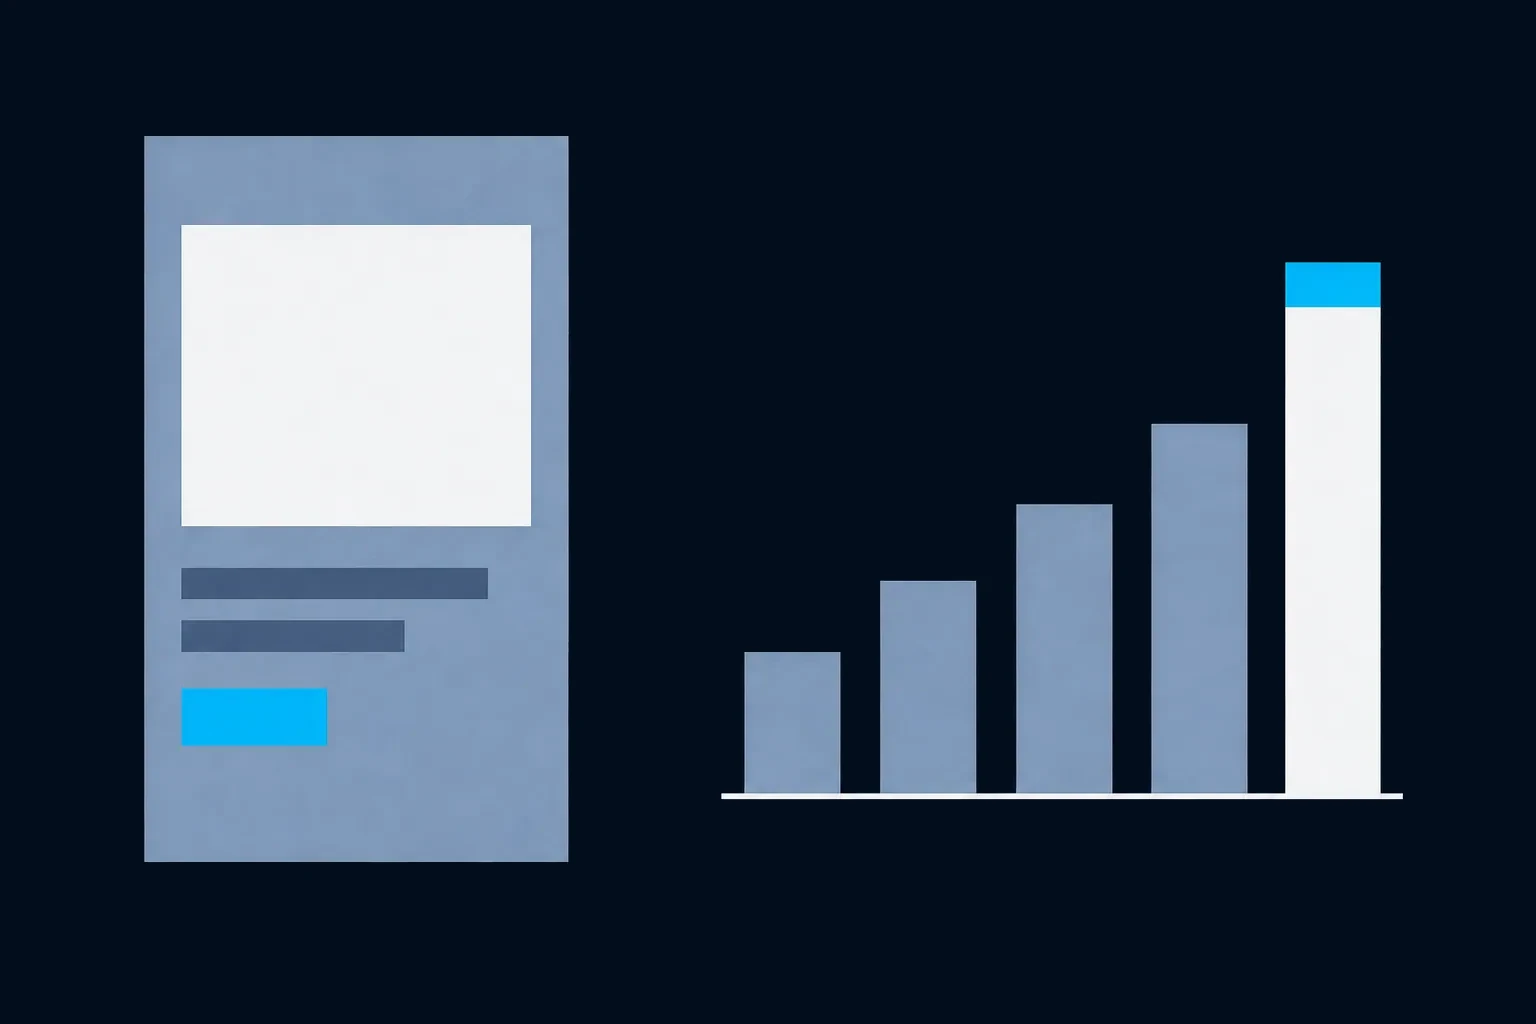
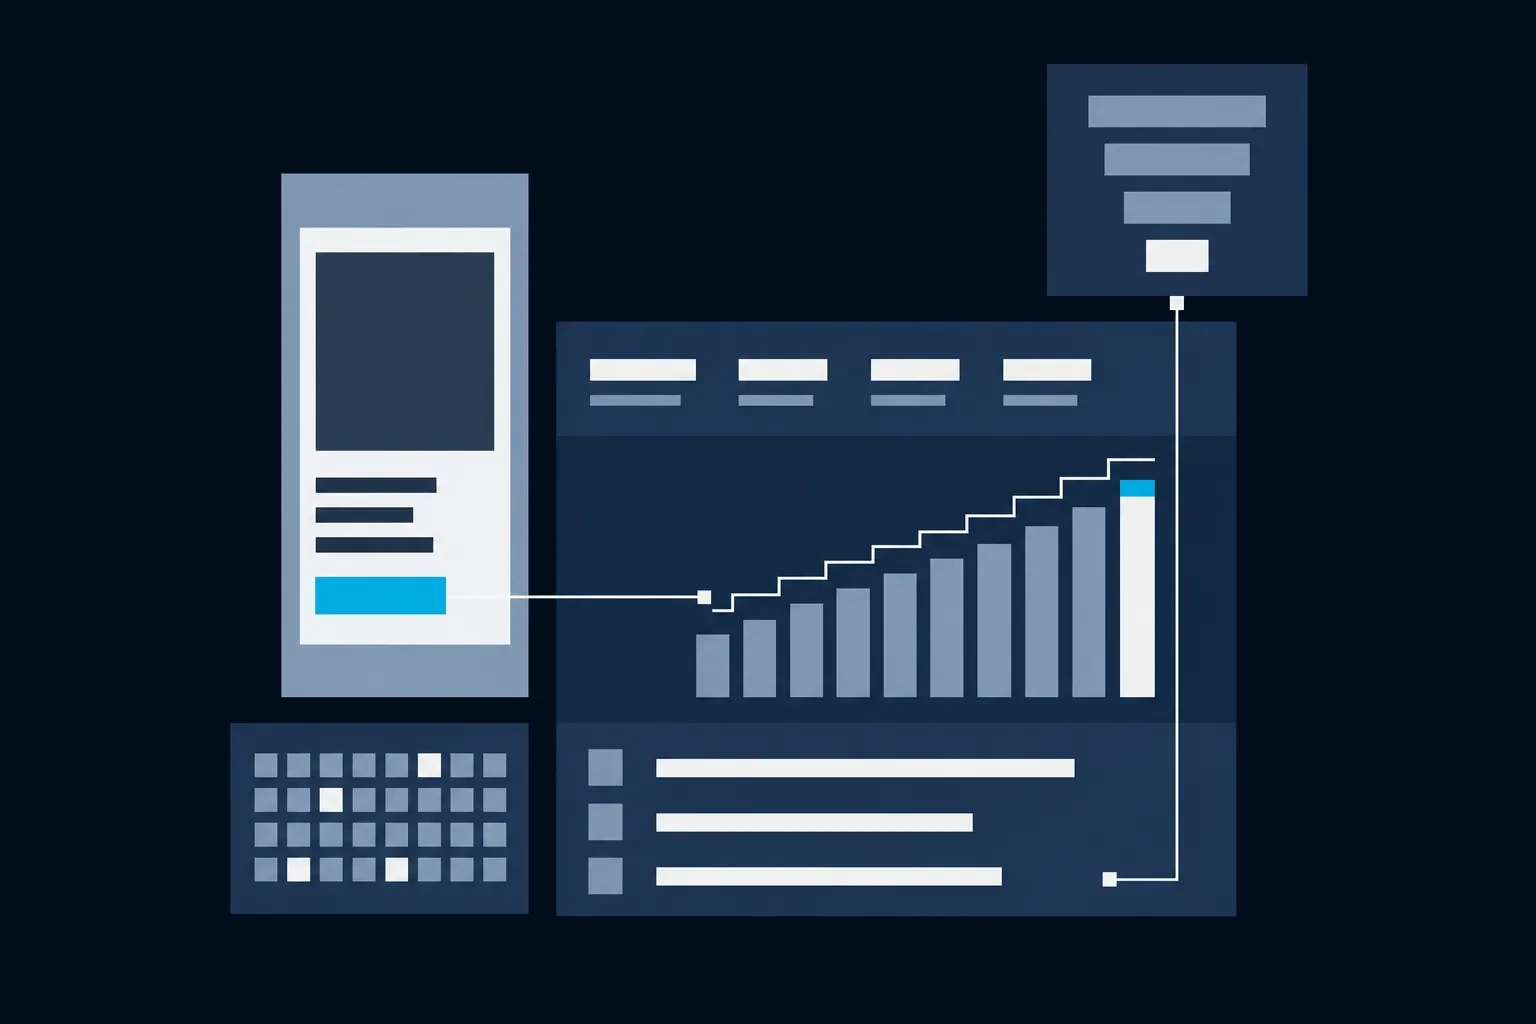
Homepage header: a richer picture, the feed ad wired to a results dashboard
Owner asked for a more interesting first image. The phone's ad now leads into metric tiles, bars rising under a stepped line, a results table, a funnel and an audience grid. Square corners, cyan kept to the button and one cap, rebuilt from pieces like every other header.

diff --git a/CLAUDE.md b/CLAUDE.md
@@ -2563,12 +2563,18 @@ like the rest of the pages; agency appropriate? and make all of the animations
 animate slightly slower"*, then *"retire the dots"*.
 
 **The homepage hero is a pieces motif like every other header.**
-`motifs/sakums.njk`, built from `hero-sakums.webp`: a feed ad in a phone beside a
-rising bar chart, the headline "Reklāma, kas atmaksājas" as a picture. The
-tallest bar carries a small cyan CAP rather than being cyan, because a prompt that
-names a cyan mass gets a cyan slab back: 0.82% of the frame is cyan as shipped.
-Ink is 29.4%, a little under the 35-45 target, and was accepted rather than
-re-rolled into the overshoot that brings back rounded corners. The three stats
+`motifs/sakums.njk`, built from `hero-sakums.webp`. **Redrawn richer on 14 Sep
+2026** (owner: *"make the header 1st page image more interesting and complex
+as that is the first image they see"*): a phone showing a feed ad whose cyan
+button is wired to a results dashboard - metric tiles, bars rising under a
+stepped line with a cyan cap on the tallest, a results table - plus a funnel
+card and an audience grid. It was picked from five renders: three concepts,
+then two re-rolls of the dashboard. Every first render drew the phone with
+rounded corners and one blurred a grid, so the prompt now spells out a plain
+rectangle and "no blur, no soft focus". 24 pieces (the stagger cap), 0.37%
+cyan, ink 21.4% by the 0.20-luminance count - the dark slate panels sit just
+under that threshold, so the frame reads fuller than the number says. Inline
+markup went from 3.6 KB to 13.6 KB. The three stats
 moved out of the right column into a `.hero-stats` ledger row under the headline.
 
 - **`.hero-grid:has(> .hero-media)` has to stay inside `min-width: 981px`.**
